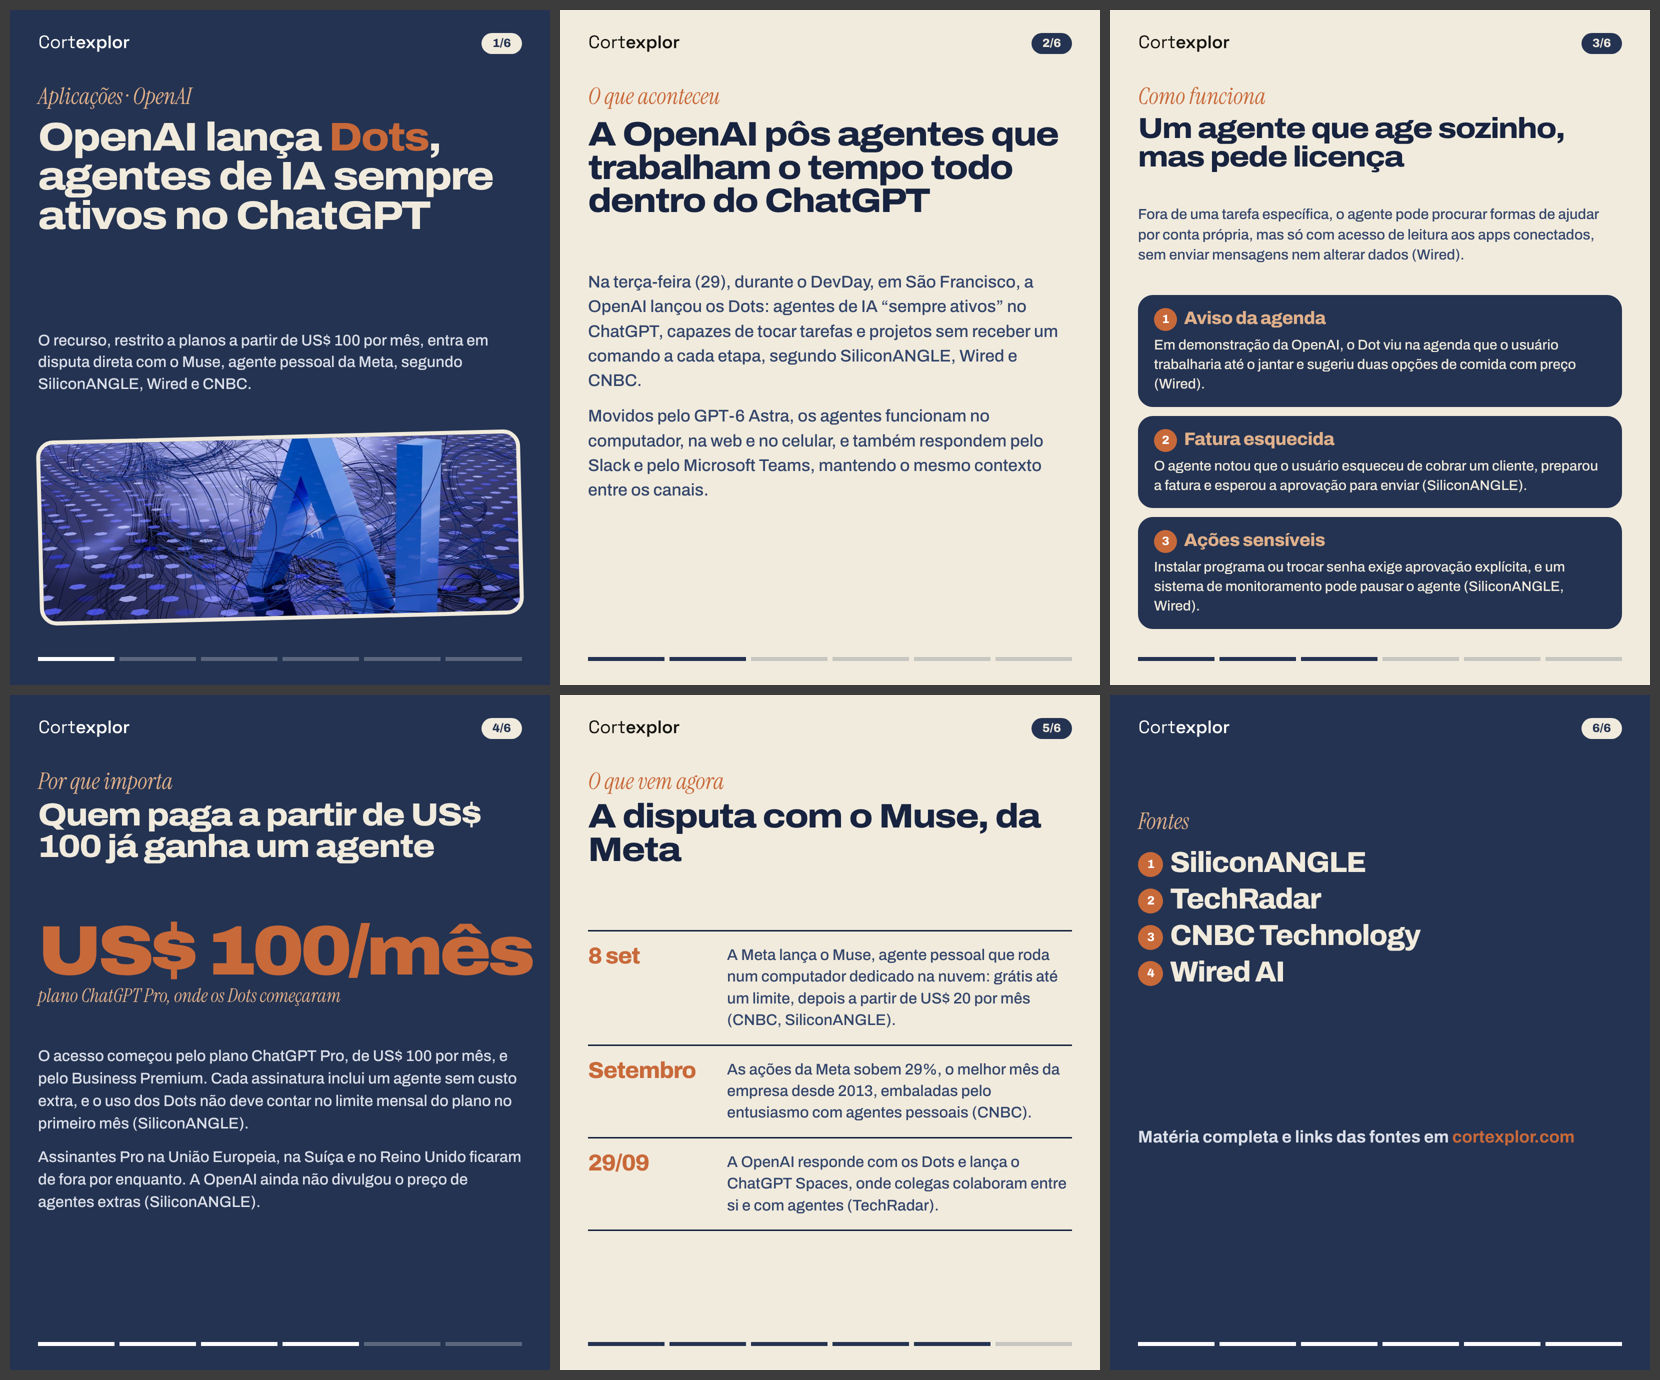
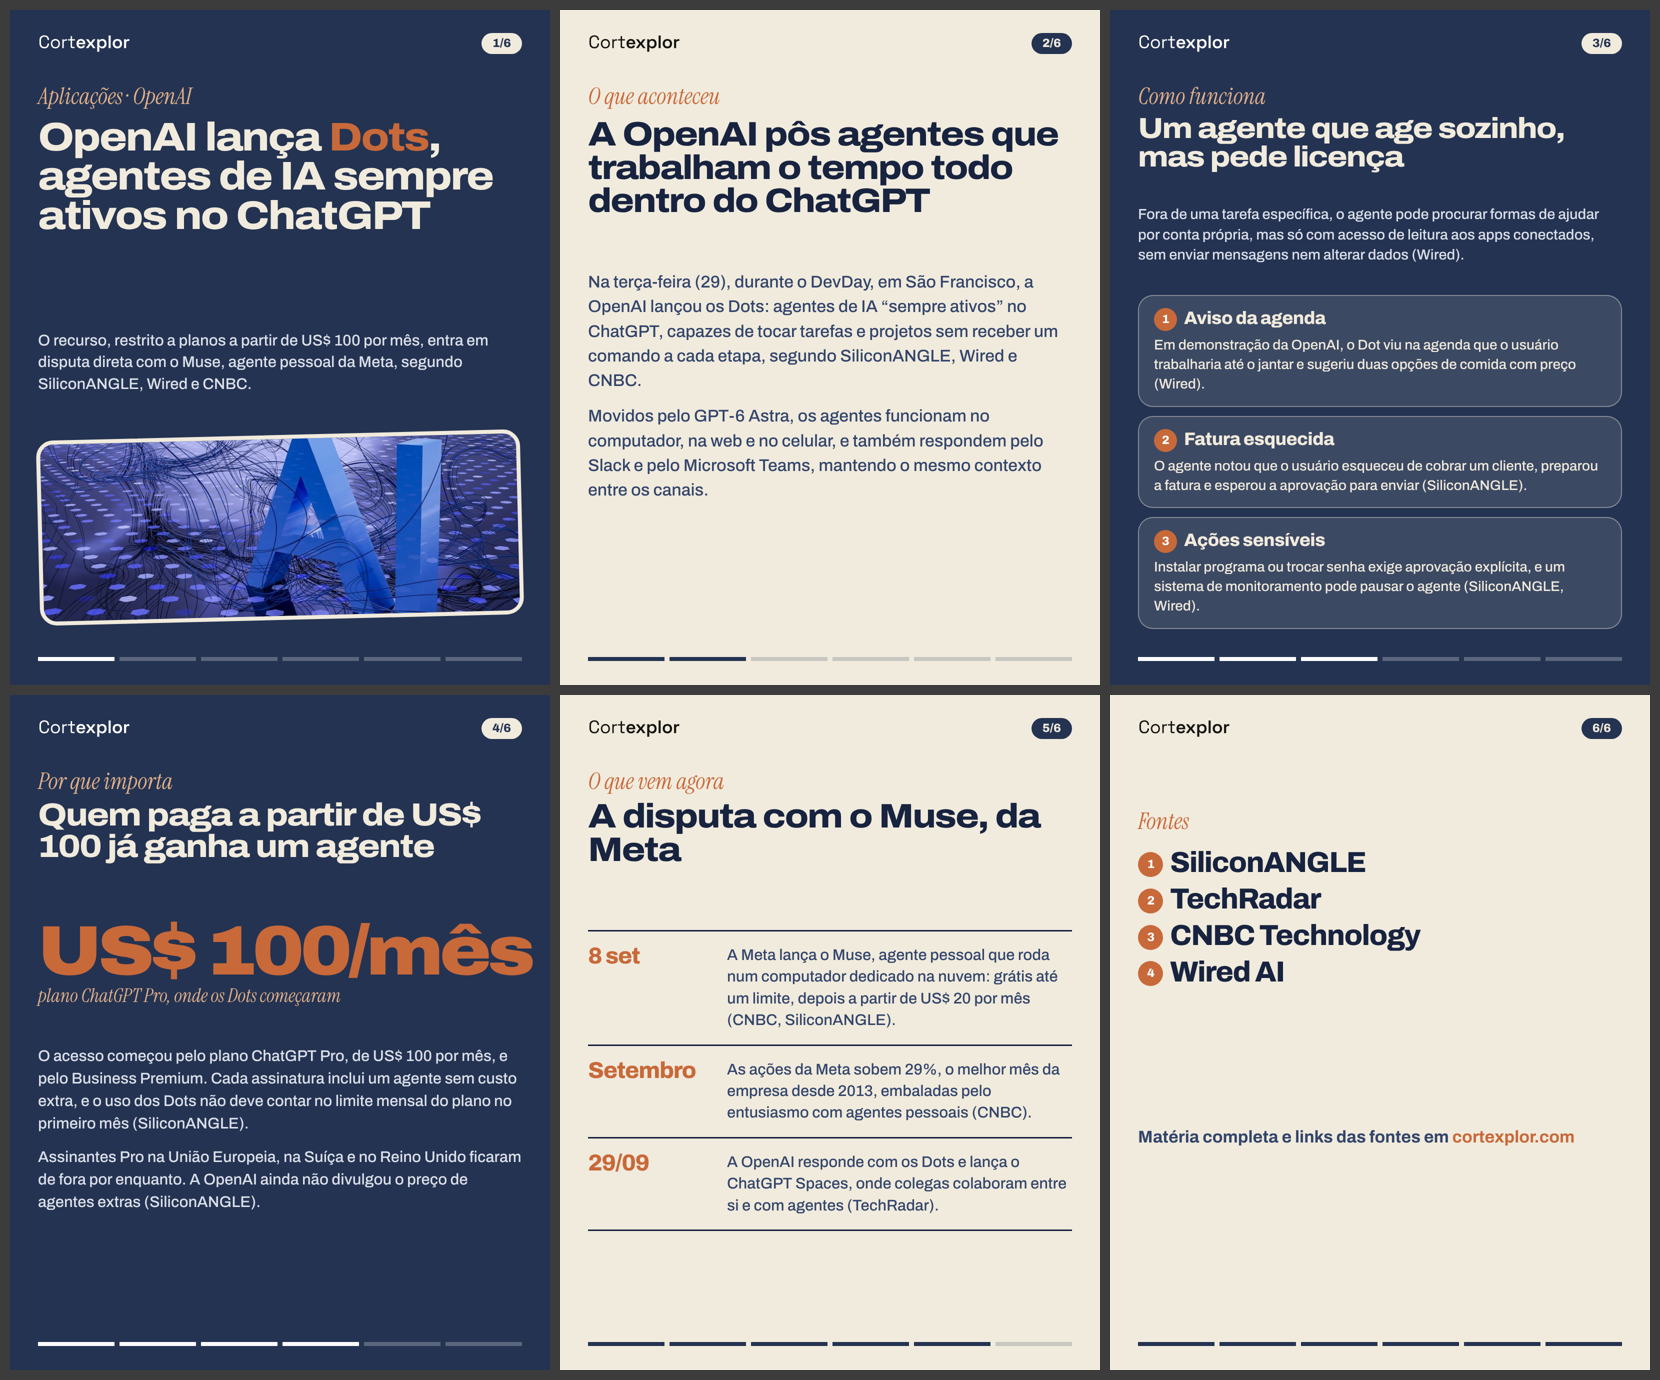
Atualiza saídas geradas dos carrosséis
Claude-Session: https://claude.ai/code/session_0158HN6BTWsPGuibWtbN19oZ

Changed region(s): [[0.6452, 0.0, 1.0, 0.9971]]

diff --git a/social/lab/_html/..-out-openai-lanca-dots-agentes-permanentes-chatgpt-meiatinta-03.html b/social/lab/_html/..-out-openai-lanca-dots-agentes-permanentes-chatgpt-meiatinta-03.html
@@ -28,8 +28,8 @@ svg.ic{display:inline-block;vertical-align:middle;flex:none}
 .H .tm{display:grid;grid-template-columns:260px 1fr;gap:18px;padding:26px 0;border-top:2px solid var(--rule)}
 .H .tm b{font:800 44px/1 Archivo;letter-spacing:-.03em;color:var(--or)}
 .H .tm p{font-size:30px;line-height:1.4;font-weight:500;color:var(--soft)}
-</style></head><body><div class='slide H dk'><div class='top'><img src='file:///home/claude/cortexplor/assets/logo/cortexplor-wordmark-white.svg'><div class='pill' style=''>3/6</div></div>
+</style></head><body><div class='slide H lt'><div class='top'><img src='file:///home/claude/cortexplor/assets/logo/cortexplor-wordmark-black.svg'><div class='pill' style=''>3/6</div></div>
 <div class='abs sf' style='left:56px;top:150px'>Como funciona</div>
 <div class='abs h' style='left:56px;top:210px;width:968px;font-size:58px'>Um agente que age sozinho, mas pede licença</div>
 <div class='abs bd' style='left:56px;top:390px;width:968px;font-size:29px;line-height:1.4'>Fora de uma tarefa específica, o agente pode procurar formas de ajudar por conta própria, mas só com acesso de leitura aos apps conectados, sem enviar mensagens nem alterar dados (Wired).</div>
-<div class='abs' style='left:56px;top:590px;width:968px'><div class='pt'><div class='n'>1</div><div><h4>Aviso da agenda</h4><p>Em demonstração da OpenAI, o Dot viu na agenda que o usuário trabalharia até o jantar e sugeriu duas opções de comida com preço (Wired).</p></div></div><div class='pt'><div class='n'>2</div><div><h4>Fatura esquecida</h4><p>O agente notou que o usuário esqueceu de cobrar um cliente, preparou a fatura e esperou a aprovação para enviar (SiliconANGLE).</p></div></div><div class='pt'><div class='n'>3</div><div><h4>Ações sensíveis</h4><p>Instalar programa ou trocar senha exige aprovação explícita, e um sistema de monitoramento pode pausar o agente (SiliconANGLE, Wired).</p></div></div></div><div class='abs' style='left:56px;right:56px;bottom:48px;display:flex;gap:10px'><i style='flex:1;height:8px;background:#ECE6D8'></i><i style='flex:1;height:8px;background:#ECE6D8'></i><i style='flex:1;height:8px;background:#ECE6D8'></i><i style='flex:1;height:8px;background:rgba(236,230,216,.22)'></i><i style='flex:1;height:8px;background:rgba(236,230,216,.22)'></i><i style='flex:1;height:8px;background:rgba(236,230,216,.22)'></i></div></div></body></html>
+<div class='abs' style='left:56px;top:590px;width:968px'><div class='pt'><div class='n'>1</div><div><h4>Aviso da agenda</h4><p>Em demonstração da OpenAI, o Dot viu na agenda que o usuário trabalharia até o jantar e sugeriu duas opções de comida com preço (Wired).</p></div></div><div class='pt'><div class='n'>2</div><div><h4>Fatura esquecida</h4><p>O agente notou que o usuário esqueceu de cobrar um cliente, preparou a fatura e esperou a aprovação para enviar (SiliconANGLE).</p></div></div><div class='pt'><div class='n'>3</div><div><h4>Ações sensíveis</h4><p>Instalar programa ou trocar senha exige aprovação explícita, e um sistema de monitoramento pode pausar o agente (SiliconANGLE, Wired).</p></div></div></div><div class='abs' style='left:56px;right:56px;bottom:48px;display:flex;gap:10px'><i style='flex:1;height:8px;background:#121212'></i><i style='flex:1;height:8px;background:#121212'></i><i style='flex:1;height:8px;background:#121212'></i><i style='flex:1;height:8px;background:rgba(18,18,18,.16)'></i><i style='flex:1;height:8px;background:rgba(18,18,18,.16)'></i><i style='flex:1;height:8px;background:rgba(18,18,18,.16)'></i></div></div></body></html>

diff --git a/social/lab/_html/..-out-openai-lanca-dots-agentes-permanentes-chatgpt-cobalto-03.html b/social/lab/_html/..-out-openai-lanca-dots-agentes-permanentes-chatgpt-cobalto-03.html
@@ -31,8 +31,8 @@ svg.ic{display:inline-block;vertical-align:middle;flex:none}
 .K .tm{display:grid;grid-template-columns:260px 1fr;gap:18px;padding:26px 0;border-top:3px solid var(--fg)}
 .K .tm b{font:800 46px/1 'Archivo';letter-spacing:-.03em;color:var(--ac)}
 .K .tm p{font-size:31px;line-height:1.4;font-weight:500;color:var(--soft)}
-</style></head><body><div class='slide K lt'><div class='top'><img src='file:///home/claude/cortexplor/assets/logo/cortexplor-wordmark-black.svg'><div class='pill' style=''>3/6</div></div>
+</style></head><body><div class='slide K dk'><div class='top'><img src='file:///home/claude/cortexplor/assets/logo/cortexplor-wordmark-white.svg'><div class='pill' style=''>3/6</div></div>
 <div class='abs sf' style='left:56px;top:150px'>Como funciona</div>
 <div class='abs h' style='left:56px;top:210px;width:968px;font-size:58px'>Um agente que age sozinho, mas pede licença</div>
 <div class='abs bd' style='left:56px;top:390px;width:968px;font-size:29px;line-height:1.4'>Fora de uma tarefa específica, o agente pode procurar formas de ajudar por conta própria, mas só com acesso de leitura aos apps conectados, sem enviar mensagens nem alterar dados (Wired).</div>
-<div class='abs' style='left:56px;top:570px;width:968px'><div class='cd'><h4><span class='num'>1</span>Aviso da agenda</h4><p>Em demonstração da OpenAI, o Dot viu na agenda que o usuário trabalharia até o jantar e sugeriu duas opções de comida com preço (Wired).</p></div><div class='cd'><h4><span class='num'>2</span>Fatura esquecida</h4><p>O agente notou que o usuário esqueceu de cobrar um cliente, preparou a fatura e esperou a aprovação para enviar (SiliconANGLE).</p></div><div class='cd'><h4><span class='num'>3</span>Ações sensíveis</h4><p>Instalar programa ou trocar senha exige aprovação explícita, e um sistema de monitoramento pode pausar o agente (SiliconANGLE, Wired).</p></div></div><div class='abs' style='left:56px;right:56px;bottom:48px;display:flex;gap:10px'><i style='flex:1;height:8px;background:#243352'></i><i style='flex:1;height:8px;background:#243352'></i><i style='flex:1;height:8px;background:#243352'></i><i style='flex:1;height:8px;background:rgba(36,51,82,.2)'></i><i style='flex:1;height:8px;background:rgba(36,51,82,.2)'></i><i style='flex:1;height:8px;background:rgba(36,51,82,.2)'></i></div></div></body></html>
+<div class='abs' style='left:56px;top:570px;width:968px'><div class='cd'><h4><span class='num'>1</span>Aviso da agenda</h4><p>Em demonstração da OpenAI, o Dot viu na agenda que o usuário trabalharia até o jantar e sugeriu duas opções de comida com preço (Wired).</p></div><div class='cd'><h4><span class='num'>2</span>Fatura esquecida</h4><p>O agente notou que o usuário esqueceu de cobrar um cliente, preparou a fatura e esperou a aprovação para enviar (SiliconANGLE).</p></div><div class='cd'><h4><span class='num'>3</span>Ações sensíveis</h4><p>Instalar programa ou trocar senha exige aprovação explícita, e um sistema de monitoramento pode pausar o agente (SiliconANGLE, Wired).</p></div></div><div class='abs' style='left:56px;right:56px;bottom:48px;display:flex;gap:10px'><i style='flex:1;height:8px;background:#fff'></i><i style='flex:1;height:8px;background:#fff'></i><i style='flex:1;height:8px;background:#fff'></i><i style='flex:1;height:8px;background:rgba(255,255,255,.25)'></i><i style='flex:1;height:8px;background:rgba(255,255,255,.25)'></i><i style='flex:1;height:8px;background:rgba(255,255,255,.25)'></i></div></div></body></html>

diff --git a/social/lab/_html/..-out-openai-lanca-dots-agentes-permanentes-chatgpt-meiatinta-05.html b/social/lab/_html/..-out-openai-lanca-dots-agentes-permanentes-chatgpt-meiatinta-05.html
@@ -28,7 +28,7 @@ svg.ic{display:inline-block;vertical-align:middle;flex:none}
 .H .tm{display:grid;grid-template-columns:260px 1fr;gap:18px;padding:26px 0;border-top:2px solid var(--rule)}
 .H .tm b{font:800 44px/1 Archivo;letter-spacing:-.03em;color:var(--or)}
 .H .tm p{font-size:30px;line-height:1.4;font-weight:500;color:var(--soft)}
-</style></head><body><div class='slide H lt'><div class='top'><img src='file:///home/claude/cortexplor/assets/logo/cortexplor-wordmark-black.svg'><div class='pill' style=''>5/6</div></div>
+</style></head><body><div class='slide H dk'><div class='top'><img src='file:///home/claude/cortexplor/assets/logo/cortexplor-wordmark-white.svg'><div class='pill' style=''>5/6</div></div>
 <div class='abs sf' style='left:56px;top:150px'>O que vem agora</div>
 <div class='abs h' style='left:56px;top:210px;width:968px;font-size:66px'>A disputa com o Muse, da Meta</div>
-<div class='abs' style='left:56px;top:460px;width:968px;border-bottom:2px solid var(--rule)'><div class='tm'><b>8 set</b><p>A Meta lança o Muse, agente pessoal que roda num computador dedicado na nuvem: grátis até um limite, depois a partir de US$ 20 por mês (CNBC, SiliconANGLE).</p></div><div class='tm'><b>Setembro</b><p>As ações da Meta sobem 29%, o melhor mês da empresa desde 2013, embaladas pelo entusiasmo com agentes pessoais (CNBC).</p></div><div class='tm'><b>29/09</b><p>A OpenAI responde com os Dots e lança o ChatGPT Spaces, onde colegas colaboram entre si e com agentes (TechRadar).</p></div></div><div class='abs' style='left:56px;right:56px;bottom:48px;display:flex;gap:10px'><i style='flex:1;height:8px;background:#121212'></i><i style='flex:1;height:8px;background:#121212'></i><i style='flex:1;height:8px;background:#121212'></i><i style='flex:1;height:8px;background:#121212'></i><i style='flex:1;height:8px;background:#121212'></i><i style='flex:1;height:8px;background:rgba(18,18,18,.16)'></i></div></div></body></html>
+<div class='abs' style='left:56px;top:460px;width:968px;border-bottom:2px solid var(--rule)'><div class='tm'><b>8 set</b><p>A Meta lança o Muse, agente pessoal que roda num computador dedicado na nuvem: grátis até um limite, depois a partir de US$ 20 por mês (CNBC, SiliconANGLE).</p></div><div class='tm'><b>Setembro</b><p>As ações da Meta sobem 29%, o melhor mês da empresa desde 2013, embaladas pelo entusiasmo com agentes pessoais (CNBC).</p></div><div class='tm'><b>29/09</b><p>A OpenAI responde com os Dots e lança o ChatGPT Spaces, onde colegas colaboram entre si e com agentes (TechRadar).</p></div></div><div class='abs' style='left:56px;right:56px;bottom:48px;display:flex;gap:10px'><i style='flex:1;height:8px;background:#ECE6D8'></i><i style='flex:1;height:8px;background:#ECE6D8'></i><i style='flex:1;height:8px;background:#ECE6D8'></i><i style='flex:1;height:8px;background:#ECE6D8'></i><i style='flex:1;height:8px;background:#ECE6D8'></i><i style='flex:1;height:8px;background:rgba(236,230,216,.22)'></i></div></div></body></html>

diff --git a/social/lab/_html/..-out-openai-lanca-dots-agentes-permanentes-chatgpt-cobalto-06.html b/social/lab/_html/..-out-openai-lanca-dots-agentes-permanentes-chatgpt-cobalto-06.html
@@ -31,7 +31,7 @@ svg.ic{display:inline-block;vertical-align:middle;flex:none}
 .K .tm{display:grid;grid-template-columns:260px 1fr;gap:18px;padding:26px 0;border-top:3px solid var(--fg)}
 .K .tm b{font:800 46px/1 'Archivo';letter-spacing:-.03em;color:var(--ac)}
 .K .tm p{font-size:31px;line-height:1.4;font-weight:500;color:var(--soft)}
-</style></head><body><div class='slide K dk'><div class='top'><img src='file:///home/claude/cortexplor/assets/logo/cortexplor-wordmark-white.svg'><div class='pill' style=''>6/6</div></div>
+</style></head><body><div class='slide K lt'><div class='top'><img src='file:///home/claude/cortexplor/assets/logo/cortexplor-wordmark-black.svg'><div class='pill' style=''>6/6</div></div>
 <div class='abs sf' style='left:56px;top:230px'>Fontes</div>
 <div class='abs' style='left:56px;top:300px;width:968px'><div style='font:800 58px/1.05 Archivo;letter-spacing:-.03em;padding:6px 0'><span class='num' style='width:50px;height:50px'>1</span>SiliconANGLE</div><div style='font:800 58px/1.05 Archivo;letter-spacing:-.03em;padding:6px 0'><span class='num' style='width:50px;height:50px'>2</span>TechRadar</div><div style='font:800 58px/1.05 Archivo;letter-spacing:-.03em;padding:6px 0'><span class='num' style='width:50px;height:50px'>3</span>CNBC Technology</div><div style='font:800 58px/1.05 Archivo;letter-spacing:-.03em;padding:6px 0'><span class='num' style='width:50px;height:50px'>4</span>Wired AI</div></div>
-<div class='abs bd' style='left:56px;top:860px;width:968px;font-weight:700'>Matéria completa e links das fontes em <span style='color:var(--or)'>cortexplor.com</span></div><div class='abs' style='left:56px;right:56px;bottom:48px;display:flex;gap:10px'><i style='flex:1;height:8px;background:#fff'></i><i style='flex:1;height:8px;background:#fff'></i><i style='flex:1;height:8px;background:#fff'></i><i style='flex:1;height:8px;background:#fff'></i><i style='flex:1;height:8px;background:#fff'></i><i style='flex:1;height:8px;background:#fff'></i></div></div></body></html>
+<div class='abs bd' style='left:56px;top:860px;width:968px;font-weight:700'>Matéria completa e links das fontes em <span style='color:var(--or)'>cortexplor.com</span></div><div class='abs' style='left:56px;right:56px;bottom:48px;display:flex;gap:10px'><i style='flex:1;height:8px;background:#243352'></i><i style='flex:1;height:8px;background:#243352'></i><i style='flex:1;height:8px;background:#243352'></i><i style='flex:1;height:8px;background:#243352'></i><i style='flex:1;height:8px;background:#243352'></i><i style='flex:1;height:8px;background:#243352'></i></div></div></body></html>
